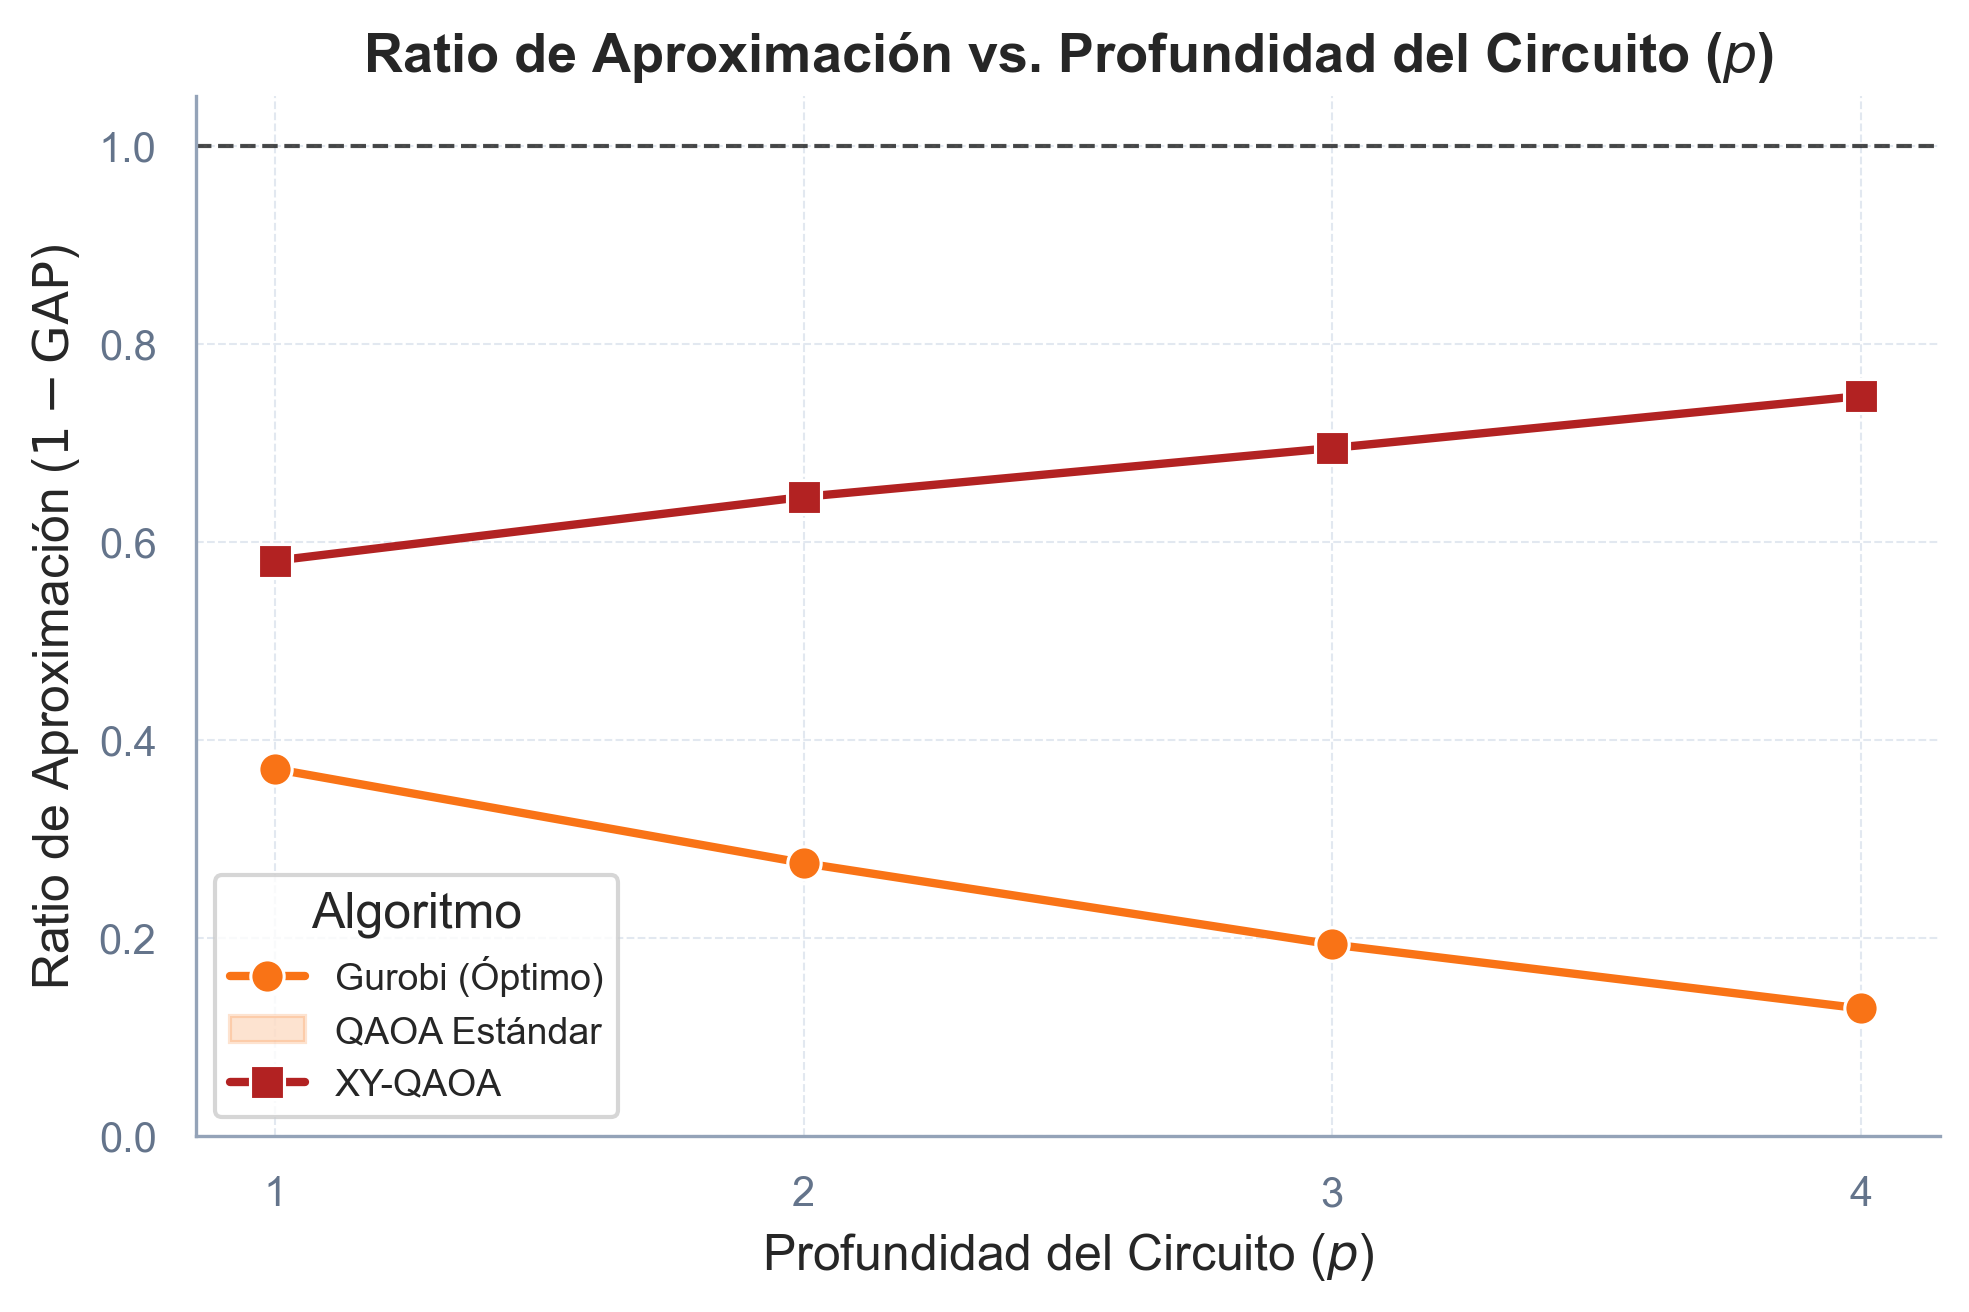
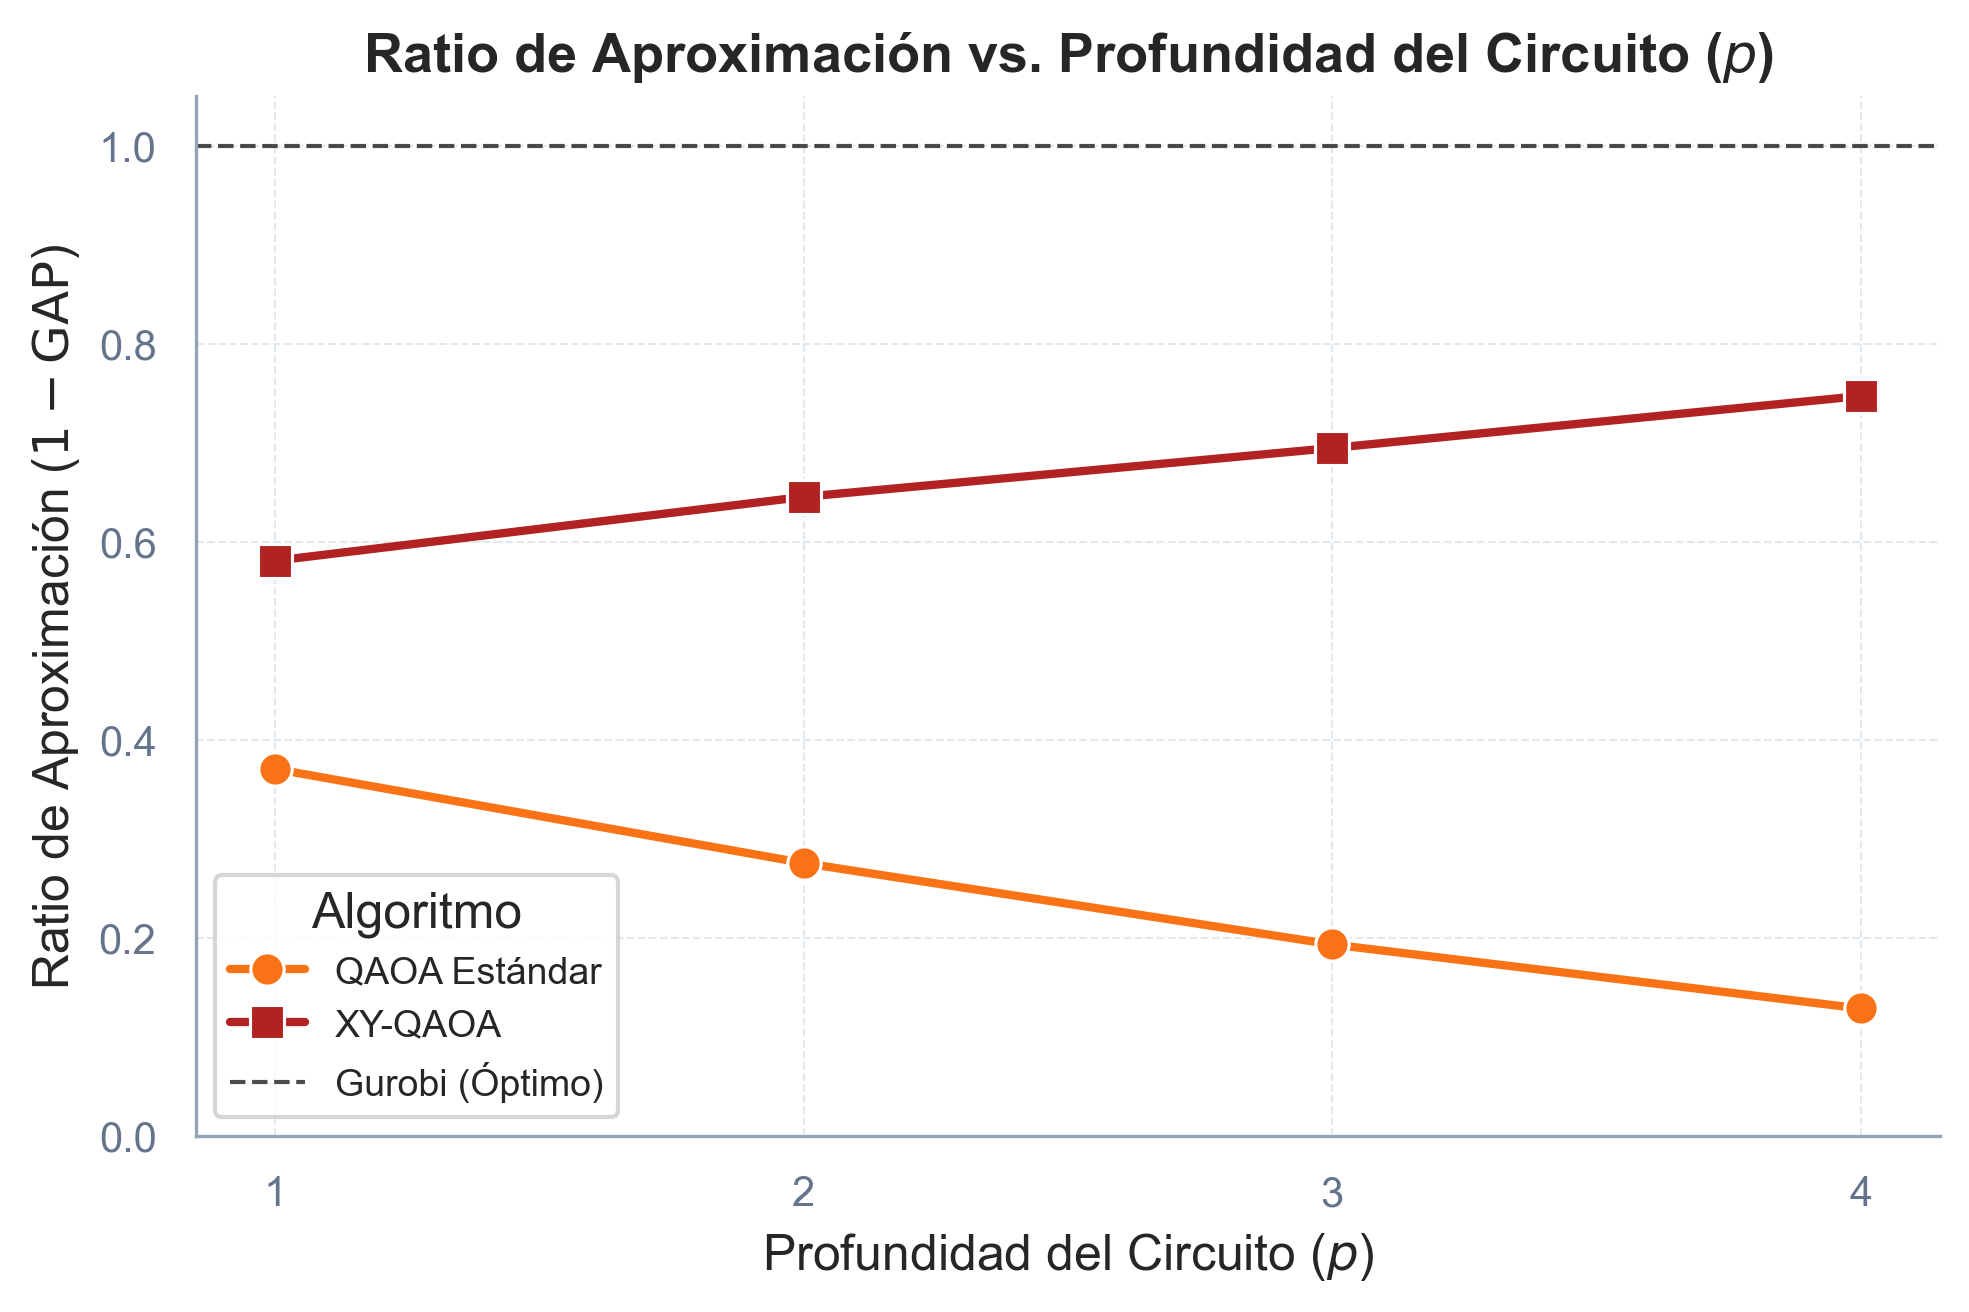
Final4

Changed region(s): [[0.0929, 0.7188, 0.3098, 0.8438]]

diff --git a/scripts/generate_figures.py b/scripts/generate_figures.py
@@ -480,20 +480,19 @@ def main():
         sns.despine()
         plt.savefig(os.path.join(output_dir, "xy_vs_qaoa_feasibility.png"), bbox_inches='tight')
         plt.close()
-        
-    # ----------------------------------------------------
-    # Plot 10: Comparativa QAOA vs XY (Approximation Ratio vs p) -> comparison_qaoa_vs_xy.png
-    # ----------------------------------------------------
     df_quantum = df_filtered[df_filtered['solver'].isin(['qaoa', 'xy_qaoa'])].copy()
     if not df_quantum.empty:
+        # Map solver values to clean names for accurate, automatic legends
+        df_quantum['solver'] = df_quantum['solver'].map({'qaoa': 'QAOA Estándar', 'xy_qaoa': 'XY-QAOA'})
+        
         plt.figure(figsize=(7.5, 4.5))
         df_quantum_p = df_quantum.groupby(['p_int', 'solver'])['approximation_ratio'].mean().reset_index()
         df_quantum_p.sort_values(by='p_int', inplace=True)
         
-        palette_quant = {'qaoa': '#F97316', 'xy_qaoa': '#B22222'}
+        palette_quant = {'QAOA Estándar': '#F97316', 'XY-QAOA': '#B22222'}
         sns.lineplot(
             data=df_quantum_p, x='p_int', y='approximation_ratio', hue='solver', style='solver',
-            markers={'qaoa': 'o', 'xy_qaoa': 's'}, palette=palette_quant, linewidth=2, markersize=8, dashes=False
+            markers={'QAOA Estándar': 'o', 'XY-QAOA': 's'}, palette=palette_quant, linewidth=2, markersize=8, dashes=False
         )
         plt.axhline(1.0, color='black', linestyle='--', linewidth=1.0, alpha=0.7, label='Gurobi (Óptimo)')
         plt.title("Ratio de Aproximación vs. Profundidad del Circuito ($p$)", weight='bold')
@@ -502,8 +501,7 @@ def main():
         plt.xticks(sorted(df_quantum_p['p_int'].unique()))
         plt.ylim(0.0, 1.05)
         
-        # Rename legend labels
-        plt.legend(['Gurobi (Óptimo)', 'QAOA Estándar', 'XY-QAOA'], title="Algoritmo", frameon=True)
+        plt.legend(title="Algoritmo", frameon=True)
         sns.despine()
         plt.savefig(os.path.join(output_dir, "comparison_qaoa_vs_xy.png"), bbox_inches='tight')
         plt.close()
@@ -517,32 +515,32 @@ def main():
         df_gap_p.sort_values(by='p_int', inplace=True)
         sns.lineplot(
             data=df_gap_p, x='p_int', y='gap_pct', hue='solver', style='solver',
-            markers={'qaoa': 'o', 'xy_qaoa': 's'}, palette=palette_quant, linewidth=2, markersize=8, dashes=False
+            markers={'QAOA Estándar': 'o', 'XY-QAOA': 's'}, palette=palette_quant, linewidth=2, markersize=8, dashes=False
         )
         plt.axhline(0.0, color='black', linestyle='--', linewidth=1.0, alpha=0.7, label='Gurobi (Óptimo)')
         plt.title("Optimality GAP vs. Profundidad del Circuito ($p$)", weight='bold')
         plt.xlabel("Profundidad del Circuito ($p$)")
         plt.ylabel("GAP relativo respecto a Gurobi (%)")
         plt.xticks(sorted(df_gap_p['p_int'].unique()))
-        plt.legend(['Gurobi (Óptimo)', 'QAOA Estándar', 'XY-QAOA'], title="Algoritmo", frameon=True)
+        plt.legend(title="Algoritmo", frameon=True)
         sns.despine()
         plt.savefig(os.path.join(output_dir, "gap_vs_p.png"), bbox_inches='tight')
         plt.close()
-
+ 
         # Tiempo vs p
         plt.figure(figsize=(7.5, 4.5))
         df_time_p = df_quantum.groupby(['p_int', 'solver'])['runtime_seconds'].mean().reset_index()
         df_time_p.sort_values(by='p_int', inplace=True)
         sns.lineplot(
             data=df_time_p, x='p_int', y='runtime_seconds', hue='solver', style='solver',
-            markers={'qaoa': 'o', 'xy_qaoa': 's'}, palette=palette_quant, linewidth=2, markersize=8, dashes=False
+            markers={'QAOA Estándar': 'o', 'XY-QAOA': 's'}, palette=palette_quant, linewidth=2, markersize=8, dashes=False
         )
         plt.yscale('log')
         plt.title("Tiempo de Simulación vs. Profundidad del Circuito ($p$)", weight='bold')
         plt.xlabel("Profundidad del Circuito ($p$)")
         plt.ylabel("Tiempo de Simulación (segundos) - Escala Log")
         plt.xticks(sorted(df_time_p['p_int'].unique()))
-        plt.legend(['QAOA Estándar', 'XY-QAOA'], title="Algoritmo", frameon=True)
+        plt.legend(title="Algoritmo", frameon=True)
         sns.despine()
         plt.savefig(os.path.join(output_dir, "tiempo_vs_p.png"), bbox_inches='tight')
         plt.close()
